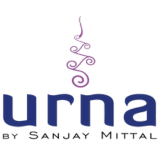
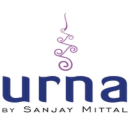
test

diff --git a/about.html b/about.html
@@ -101,7 +101,7 @@
                   <div class="header-logo">
                     <a href="index.html">
                       <figure>
-                        <img src="assets/images/urna-logo.png" alt="logoo">
+                        <img src="assets/images/urna 120.png" alt="logoo">
                       </figure>
                     </a>
                   </div>
@@ -359,7 +359,7 @@
 
   <!-- Banner Style One Start -->
   <section class="banner-style-one">
-    <div class="parallax" style="background-image: url(assets/images/pattren-3.png);"></div>
+    <div class="parallax" style="background-image: url(assets/images/project.png);"></div>
     <div class="container">
       <div class="row">
         <div class="banner-details">
@@ -423,7 +423,7 @@
                 Enjoy sustainable luxury living that sets a new standard for generations to come.</p>
             </div>
             <figure>
-              <img class="w-100" src="https://via.placeholder.com/635x400" alt="About Image One">
+              <img class="w-100" src="./assets/images/project-1.png" alt="About Image One">
             </figure>
           </div>
         </div>
@@ -513,11 +513,11 @@
         <img src="assets/images/urna-icon.png" alt="heading-icon-2">
       </figure>
       <!-- <span>Plan + Control</span> -->
-      <h2>Floor Plane</h2>
+      <h2>Floor Plan</h2>
     </div>
     <div class="container">
       <figure style="position: relative; z-index: 9;">
-        <img class="w-100" src="https://via.placeholder.com/1300x460" alt="About How It Works">
+        <img class="w-100" src="./assets/images/floar-plan.png" alt="About How It Works">
       </figure>
     </div>
     <!-- <div class="container">
@@ -572,7 +572,7 @@
     </div>
     <div class="container">
       <figure style="position: relative; z-index: 9;">
-        <img class="w-100" src="https://via.placeholder.com/1300x460" alt="About How It Works">
+        <img class="w-100" src="./assets/images/amenties.png" alt="About How It Works">
       </figure>
     </div>
     <div class="container">
@@ -582,8 +582,8 @@
             <div class="y-box d-flex-all">
               1.
             </div>
-            <h3>Phase Plan</h3>
-            <p>This step connects the design process and its miles tones with construction.</p>
+            <h3>Walking track</h3>
+            <!-- <p>This step connects the design process and its miles tones with construction.</p> -->
           </div>
         </div>
         <div class="col-lg-3 col-md-6 col-sm-12">
@@ -591,8 +591,8 @@
             <div class="y-box d-flex-all">
               2.
             </div>
-            <h3>Design Pull Plan</h3>
-            <p>We work with the design team to establish a detailed plan for reaching our goals.</p>
+            <h3>Outdoor sitout</h3>
+            <!-- <p>We work with the design team to establish a detailed plan for reaching our goals.</p> -->
           </div>
         </div>
         <div class="col-lg-3 col-md-6 col-sm-12">
@@ -600,8 +600,8 @@
             <div class="y-box d-flex-all">
               3.
             </div>
-            <h3>Coordinated Layout</h3>
-            <p>This process creates a single point of truth: coordinated drawings all project.</p>
+            <h3>Yoga zone</h3>
+            <!-- <p>This process creates a single point of truth: coordinated drawings all project.</p> -->
           </div>
         </div>
         <div class="col-lg-3 col-md-6 col-sm-12">
@@ -609,44 +609,44 @@
             <div class="y-box d-flex-all">
               4.
             </div>
-            <h3>Quality Control</h3>
-            <p>Having geometry worked out in the Coordinated Layout step, prior to construction.</p>
+            <h3>Gymnasium</h3>
+            <!-- <p>Having geometry worked out in the Coordinated Layout step, prior to construction.</p> -->
           </div>
         </div>
         <div class="col-lg-3 col-md-6 col-sm-12">
           <div class="plans">
             <div class="y-box d-flex-all">
-              1.
+              5.
             </div>
-            <h3>Phase Plan</h3>
-            <p>This step connects the design process and its miles tones with construction.</p>
+            <h3>Children's plunge pool with sandpit</h3>
+            <!-- <p>This step connects the design process and its miles tones with construction.</p> -->
           </div>
         </div>
         <div class="col-lg-3 col-md-6 col-sm-12">
           <div class="plans">
             <div class="y-box d-flex-all">
-              2.
+              6.
             </div>
-            <h3>Design Pull Plan</h3>
-            <p>We work with the design team to establish a detailed plan for reaching our goals.</p>
+            <h3>Children's play area</h3>
+            <!-- <p>We work with the design team to establish a detailed plan for reaching our goals.</p> -->
           </div>
         </div>
         <div class="col-lg-3 col-md-6 col-sm-12">
           <div class="plans">
             <div class="y-box d-flex-all">
-              3.
+              7.
             </div>
-            <h3>Coordinated Layout</h3>
-            <p>This process creates a single point of truth: coordinated drawings all project.</p>
+            <h3>Open lounge</h3>
+            <!-- <p>This process creates a single point of truth: coordinated drawings all project.</p> -->
           </div>
         </div>
         <div class="col-lg-3 col-md-6 col-sm-12">
           <div class="plans">
             <div class="y-box d-flex-all">
-              4.
+              8.
             </div>
-            <h3>Quality Control</h3>
-            <p>Having geometry worked out in the Coordinated Layout step, prior to construction.</p>
+            <h3>Banquet hall</h3>
+            <!-- <p>Having geometry worked out in the Coordinated Layout step, prior to construction.</p> -->
           </div>
         </div>
       </div>
@@ -747,7 +747,7 @@
         <div class="col-lg-6">
           <div class="data">
             <figure>
-              <img class="w-100" src="https://via.placeholder.com/580x640" alt="About key Benefits">
+              <img class="w-100" src="./assets/images/key-benefits.png" alt="About key Benefits">
             </figure>
           </div>
         </div>
@@ -757,19 +757,27 @@
             <ul>
               <li>
                 <i class="fa-solid fa-check"></i>
-                <p>Labor expenses are a common target for cost reduction measures in the construction industry</p>
+                <p>Earthquake-resistant RCC structure.</p>
               </li>
               <li>
                 <i class="fa-solid fa-check"></i>
-                <p> A good material management system includes proper communication, scheduling, and tracking tools.</p>
+                <p> Low VoC Pants.</p>
               </li>
               <li>
                 <i class="fa-solid fa-check"></i>
-                <p>Faster supplies can be used upon delivery to a construction site, the better.</p>
+                <p>Premium door and window fittings.</p>
               </li>
               <li>
                 <i class="fa-solid fa-check"></i>
-                <p>Effective material management systems not only ensure that materials are in the right place</p>
+                <p>Vitril est tiles for all areas.</p>
+              </li>
+              <li>
+                <i class="fa-solid fa-check"></i>
+                <p>Anti-seid, matt finish tiles for all bathrooms.</p>
+              </li>
+              <li>
+                <i class="fa-solid fa-check"></i>
+                <p>Full-height ceramic tiling for bathroom walls.</p>
               </li>
             </ul>
           </div>
@@ -791,22 +799,22 @@
             style="transform: translate3d(-2698px, 0px, 0px); transition: all 0.25s ease 0s; width: 5396px;">
             <div class="owl-item" style="width: 1349px;">
               <figure>
-                <img src="https://via.placeholder.com/1900x690" alt="p-d-slider">
+                <img src="./assets/images/project-gallery-1.png" alt="p-d-slider">
               </figure>
             </div>
             <div class="owl-item" style="width: 1349px;">
               <figure>
-                <img src="https://via.placeholder.com/1900x690" alt="p-d-slider">
+                <img src="./assets/images/project-gallery-2.png" alt="p-d-slider">
               </figure>
             </div>
             <div class="owl-item active" style="width: 1349px;">
               <figure>
-                <img src="https://via.placeholder.com/1900x690" alt="p-d-slider">
+                <img src="./assets/images/project-gallery-3.png" alt="p-d-slider">
               </figure>
             </div>
             <div class="owl-item" style="width: 1349px;">
               <figure>
-                <img src="https://via.placeholder.com/1900x690" alt="p-d-slider">
+                <img src="./assets/images/project-gallery-4.png" alt="p-d-slider">
               </figure>
             </div>
           </div>
@@ -1245,22 +1253,30 @@
             </div>
             <div class="row">
               <div class="col-3">
-                <a class="fb icon" href="#">
-                  <i class="fa-brands fa-facebook-f"></i>
+                <a class="fb icon" href="https://www.instagram.com/71p.urna/?hl=en">
+                  <!-- <i class="fa-brands fa-facebook-f"></i> -->
+                  <img src="/assets/images/icons8-instagram.png" alt="">
                 </a>
 
               </div>
               <div class="col-3">
-                <a class="tw icon" href="#">
-                  <i class="fa-brands fa-twitter"></i>
+                <a class="tw icon" href="https://www.facebook.com/71P.Urna">
+                  <!-- <i class="fa-brands fa-twitter"></i> -->
+                  <img src="/assets/images/icons8-facebook-60.png" alt="">
                 </a>
               </div>
               <div class="col-3">
-                <a class="tw icon" href="#">
-                  <i class="fa-brands fa-instagram"></i>
+                <a class="tw icon" href="https://www.linkedin.com/company/urnabysanjaymittal/?viewAsMember=true">
+                  <!-- <i class="fa-brands fa-instagram"></i> -->
+                  <img src="/assets/images/icons8-linkedin-60.png" alt="">
                 </a>
               </div>
-              <div class="col-3"></div>
+              <div class="col-3">
+                <a class="tw icon" href="https://www.youtube.com/@71PUrna">
+                  <!-- <i class="fa-brands fa-instagram"></i> -->
+                  <img src="/assets/images/icons8-youtube-60.png" alt="">
+                </a>
+              </div>
             </div>
           </div>
           <div class="col-lg-4 col-md-6 col-sm-12">
@@ -1284,7 +1300,11 @@
                         transform="translate(25 26)" />
                     </g>
                   </svg>
-                  <p>901 N Pitt Str., Suite 170, VA 22314, USA</p>
+                  <p>71P
+
+                    Kasturba Cross, Carter Road Number 4
+                    
+                    Borivali East, Mumbai 400 066, Maharashtra</p>
                 </li>
                 <li>
                   <svg xmlns="http://www.w3.org/2000/svg" xmlns:xlink="http://www.w3.org/1999/xlink" width="40"
@@ -1302,7 +1322,7 @@
                         transform="translate(14 48)" />
                     </g>
                   </svg>
-                  <p>(+380) 50 318 47 07</p>
+                  <p>+91 74000 44244</p>
                 </li>
                 <li>
                   <svg xmlns="http://www.w3.org/2000/svg" xmlns:xlink="http://www.w3.org/1999/xlink" width="102"
@@ -1321,7 +1341,7 @@
                         transform="translate(-918 -492)" />
                     </g>
                   </svg>
-                  <p>username@domain.com</p>
+                  <p>info@urna.in</p>
                 </li>
               </ul>
             </div>
@@ -1338,7 +1358,7 @@
               </form>
             </div> -->
             <div class="footer-col">
-              <h3>Office</h3>
+              <h3>Site Location</h3>
               <ul>
                 <li>
                   <svg xmlns="http://www.w3.org/2000/svg" xmlns:xlink="http://www.w3.org/1999/xlink" width="79"
@@ -1357,7 +1377,11 @@
                         transform="translate(25 26)" />
                     </g>
                   </svg>
-                  <p>901 N Pitt Str., Suite 170, VA 22314, USA</p>
+                  <p>71P
+
+                    Kasturba Cross, Carter Road Number 4
+                    
+                    Borivali East, Mumbai 400 066, Maharashtra</p>
                 </li>
                 <li>
                   <svg xmlns="http://www.w3.org/2000/svg" xmlns:xlink="http://www.w3.org/1999/xlink" width="40"
@@ -1375,7 +1399,7 @@
                         transform="translate(14 48)" />
                     </g>
                   </svg>
-                  <p>(+380) 50 318 47 07</p>
+                  <p>+91 74000 44244</p>
                 </li>
                 <li>
                   <svg xmlns="http://www.w3.org/2000/svg" xmlns:xlink="http://www.w3.org/1999/xlink" width="102"
@@ -1394,7 +1418,7 @@
                         transform="translate(-918 -492)" />
                     </g>
                   </svg>
-                  <p>username@domain.com</p>
+                  <p>info@urna.in</p>
                 </li>
               </ul>
             </div>

diff --git a/index.html b/index.html
@@ -118,7 +118,7 @@
                           <li><a href="index-3.html">Home Three</a></li>
                         </ul> -->
                       </li>
-                      <li><a href="#about.html">About Us</a></li>
+                      <li><a href="about.html">About Us</a></li>
                       <!-- <li class="menu-item-has-children">
                         <a href="javascript:void(0)">About</a>
                         <ul class="sub-menu">
